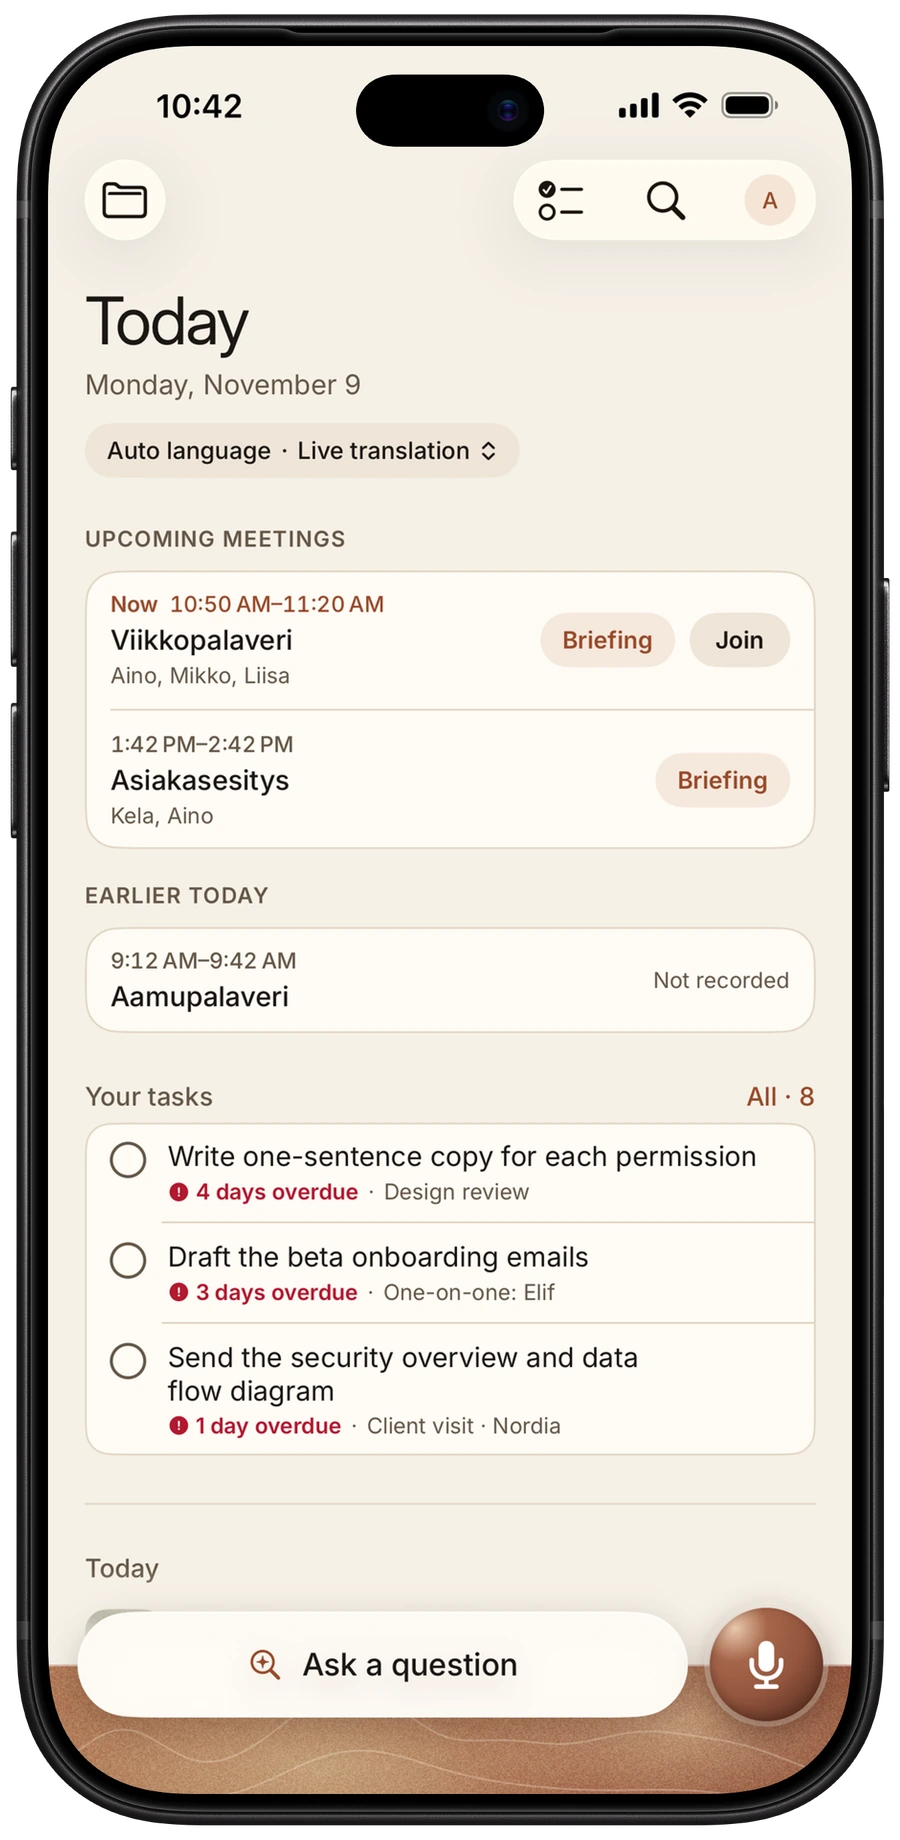
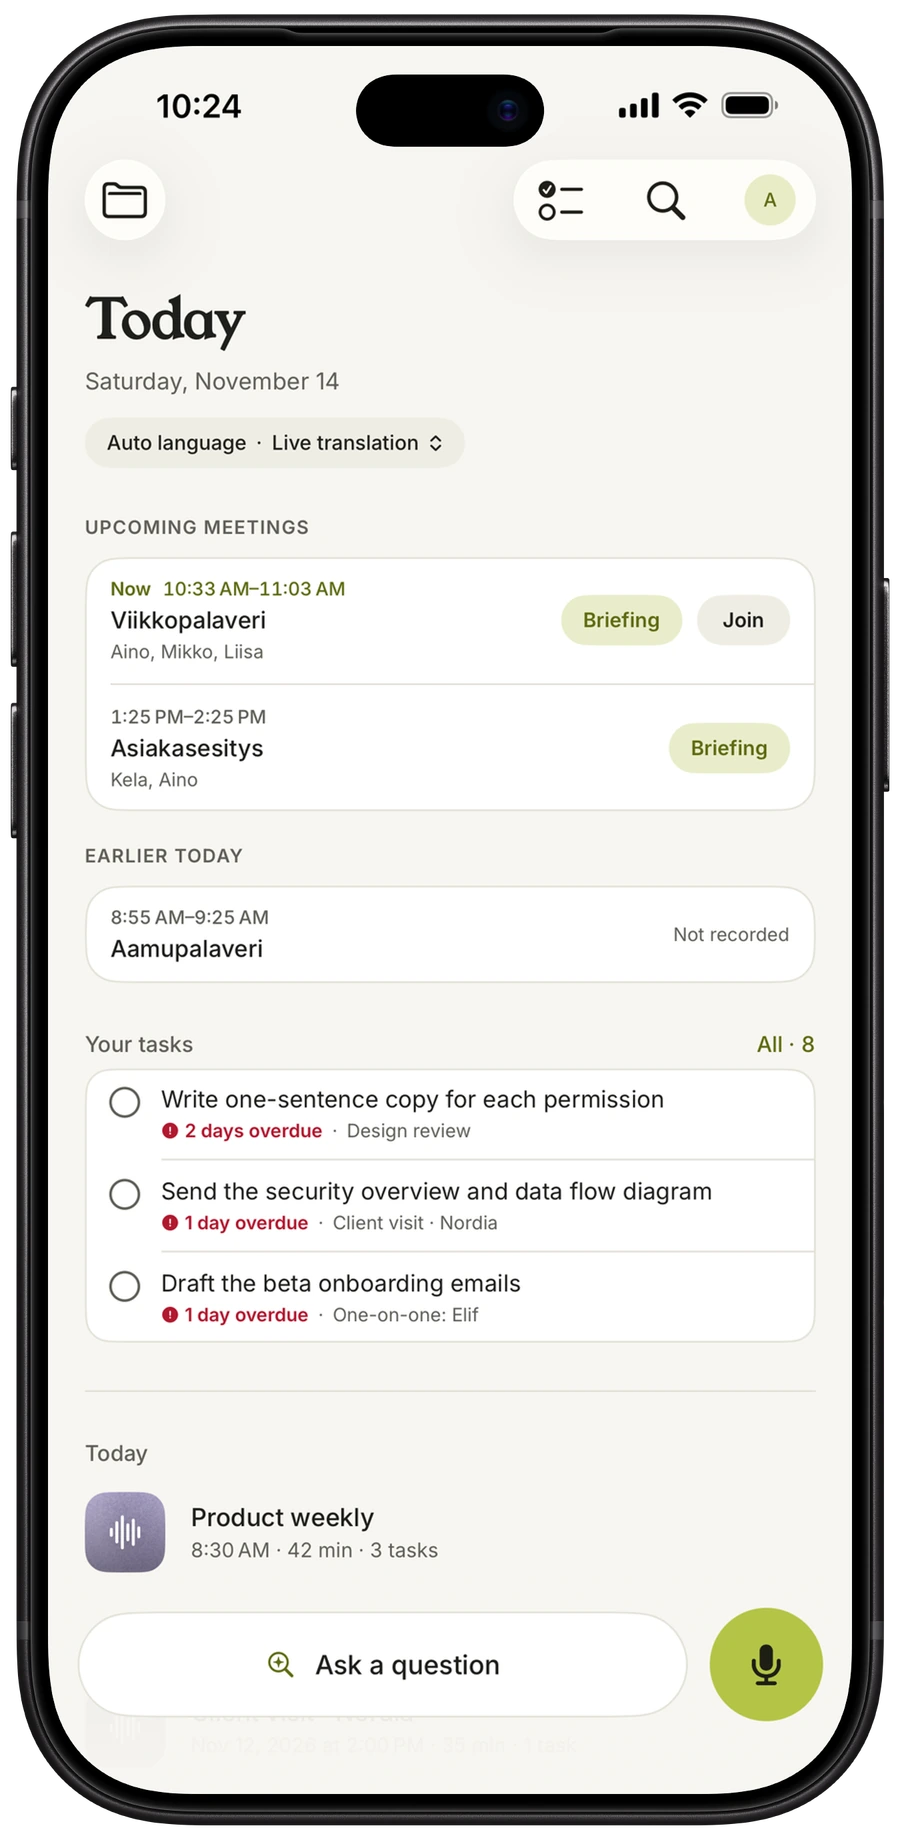
chore(web): device pictures with the Olive screens (#486)
The Mac, iPhone and Apple Watch pictures (make-device-mockups.ts) are re-rendered from the
new Olive note window and iPhone home shot (#485), with the same Apple bezels downloaded
again. The Watch screen is unchanged.

Checked: looked at all four pictures.

diff --git a/web/src/assets/devices/CREDITS.md b/web/src/assets/devices/CREDITS.md
@@ -6,7 +6,7 @@ bezel PNGs themselves are not in this repository and must not be added to it.
 
 ## Bezels
 
-From Apple Design Resources → Product Bezels (https://developer.apple.com/design/resources/), downloaded 2026-11-11:
+From Apple Design Resources → Product Bezels (https://developer.apple.com/design/resources/), downloaded 2026-11-11 (again 2026-11-14 for the Olive screens):
 
 | Picture | Bezel DMG | PNG used |
 |---|---|---|
